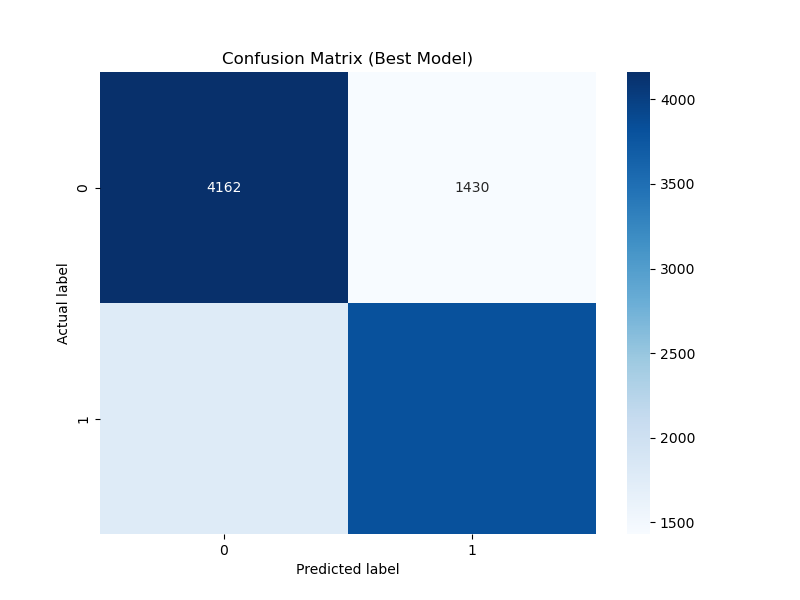
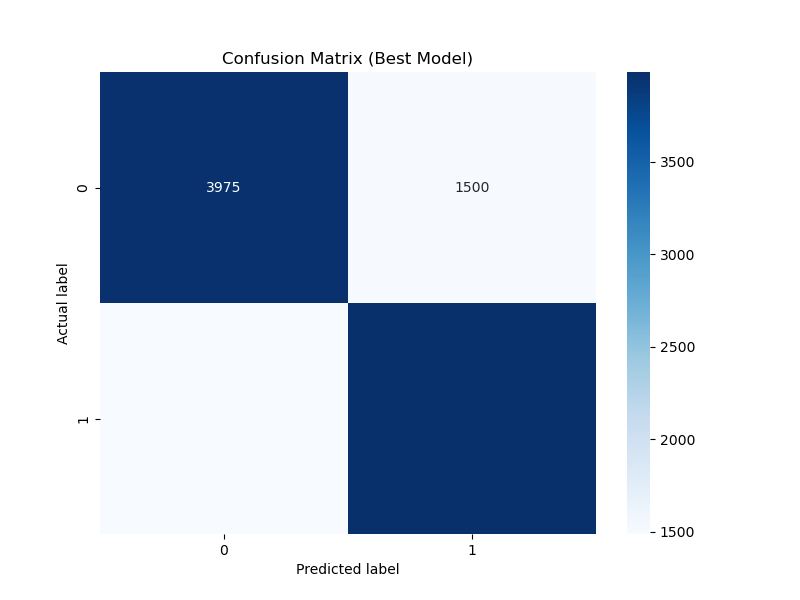
KNN: Numerical confusion matrix and classification report

diff --git a/KNN_Matilde/code/KNN.py b/KNN_Matilde/code/KNN.py
@@ -82,6 +82,9 @@ y_pred_best = best_pipeline.predict(X_test_sub)
 y_prob_best = best_pipeline.predict_proba(X_test_sub)[:, 1]  # probabilities for the positive class
 
 #classification report
+report = classification_report(y_test_sub, y_pred_best, output_dict=True)
+report_df = pd.DataFrame(report).transpose()
+report_df.to_csv('../output/Classification Report.csv', index=True)
 print(classification_report(y_test_sub, y_pred_best))
 
 
@@ -105,6 +108,8 @@ plt.close()
 
 # Confusion Matrix
 cm_best = confusion_matrix(y_test_sub, y_pred_best)
+cm_best_df = pd.DataFrame(cm_best)
+cm_best_df.to_csv("../output/Confusion Matrix.csv")
 plt.figure(figsize=(8, 6))
 sns.heatmap(cm_best, annot=True, fmt="d", cmap='Blues')
 plt.title('Confusion Matrix (Best Model)')

diff --git a/LR Silvano/code/code_1.py b/LR Silvano/code/code_1.py
@@ -71,7 +71,6 @@ conf_matrix_df.to_csv('../output/Confusion Matrix.csv')
 report = classification_report(y_test_sub, y_pred, output_dict=True)
 report_df = pd.DataFrame(report).transpose()
 report_df.to_csv('../output/Classification Report.csv', index=True)
-
 print("Accuracy:", accuracy)
 print("Confusion Matrix:\n", conf_matrix)
 print("Classification Report:\n", report)
